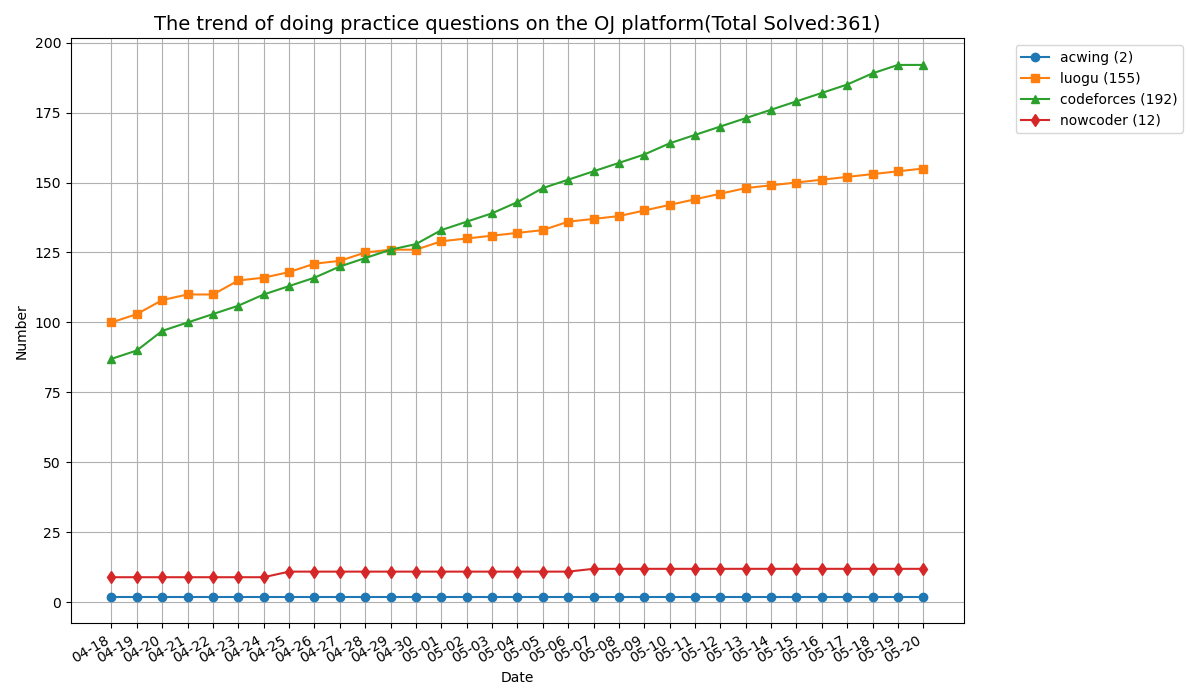
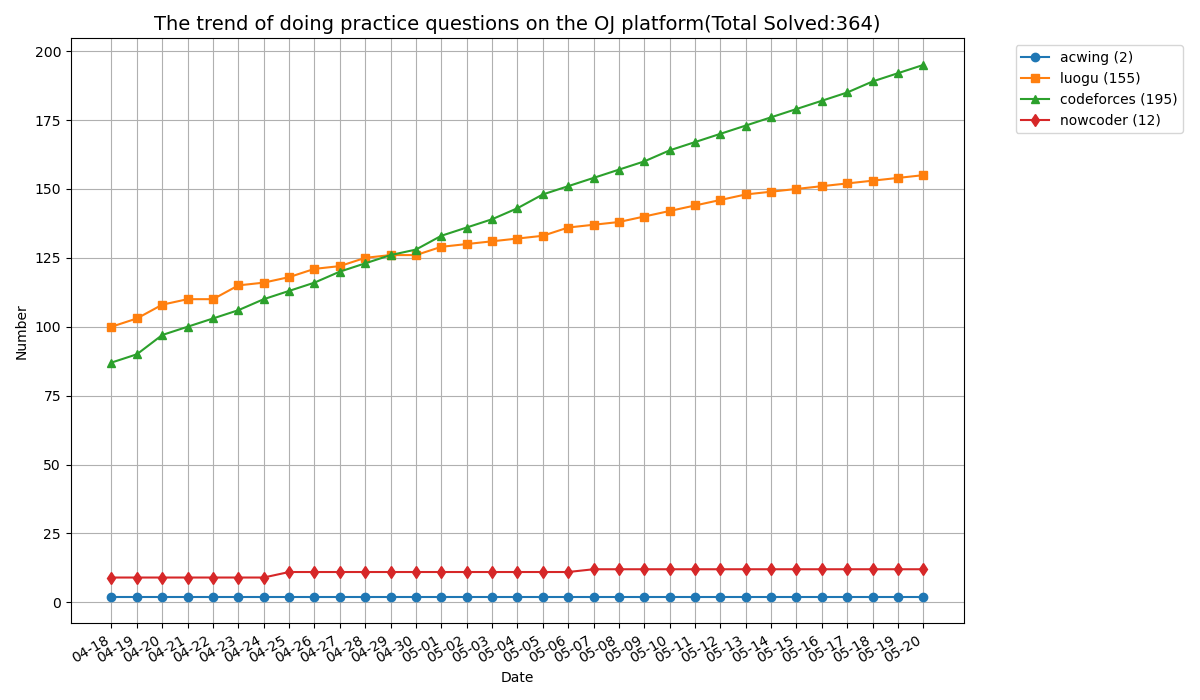
update

diff --git a/codeforces/459B/main.cpp b/codeforces/459B/main.cpp
@@ -1,0 +1,76 @@
+#include <bits/stdc++.h>
+using namespace std;
+
+
+
+#define ALL(x) (x).begin(), (x).end()
+#define MAXV(a, l, r) *std::max_element((a).begin() + (l), (a).begin() + (r))
+#define MINV(a, l, r) *std::min_element((a).begin() + (l), (a).begin() + (r))
+
+
+
+using ll = long long int;
+using ull = unsigned long long int;
+using PII = pair<int,int>;
+
+#define DEBUG
+#ifdef DEBUG
+template<typename Container>
+void PrintCon(const Container& cont) {
+  std::cout << "{ ";
+    if (!cont.empty()) {
+        auto it = cont.begin();
+        std::cout <<"\033[33m"<< *it++<< "\033[0m";
+        for (; it != cont.end(); ++it)
+            std::cout << " | " <<"\033[33m"<< *it<< "\033[0m";
+    }
+    std::cout << " }" << std::endl;
+}
+
+template<typename... Args>
+void LOG(Args&&... values) {
+    ((std::cout <<"\033[33m"<< std::forward<Args>(values) << "\033[0m"<< " "), ...);
+    std::cout << std::endl;
+}
+
+#else
+
+template<typename ...Args>
+void LOG(Args& ...args);
+template<typename Container>
+void PrintCon(const Container& cont);
+
+#endif
+
+
+int main(){
+    ios::sync_with_stdio(false);
+    cin.tie(nullptr);
+    ll n;
+    cin>>n;
+    vector<ll> a(n);
+    for(int i = 0;i<n;i++)cin>>a[i];
+    ll mxnum = 1,mnnum = 1;
+    sort(ALL(a));
+    
+    for(int i = 1;i<n;i++){
+      if(a[i]!=a[0]){
+        break;
+      }else{
+        mnnum++;
+      }
+    }
+     for(int i = n-2;i>=0;i--){
+      if(a[i]!=a[n-1]){
+        break;
+      }else{
+        mxnum++;
+      }
+    }
+     if(a[n-1]==a[0]){
+       cout<<0<<' '<<n*(n-1)/2<<endl;
+     }else{
+   cout<<a[n-1]-a[0]<<' '<<mnnum*mxnum<<endl;
+     }
+    return 0;
+}

diff --git a/codeforces/268A/main.cpp b/codeforces/268A/main.cpp
@@ -1,0 +1,63 @@
+#include <bits/stdc++.h>
+using namespace std;
+
+#define ALL(x) (x).begin(), (x).end()
+#define MAXV(a, l, r) *std::max_element((a).begin() + (l), (a).begin() + (r))
+#define MINV(a, l, r) *std::min_element((a).begin() + (l), (a).begin() + (r))
+
+using ll = long long int;
+using ull = unsigned long long int;
+using PII = pair<int, int>;
+
+#define DEBUG
+#ifdef DEBUG
+template <typename Container>
+void PrintCon(const Container &cont)
+{
+    std::cout << "{ ";
+    if (!cont.empty())
+    {
+        auto it = cont.begin();
+        std::cout << "\033[33m" << *it++ << "\033[0m";
+        for (; it != cont.end(); ++it)
+            std::cout << " | " << "\033[33m" << *it << "\033[0m";
+    }
+    std::cout << " }" << std::endl;
+}
+
+template <typename... Args>
+void LOG(Args &&...values)
+{
+    ((std::cout << "\033[33m" << std::forward<Args>(values) << "\033[0m" << " "), ...);
+    std::cout << std::endl;
+}
+
+#else
+
+template <typename... Args>
+void LOG(Args &...args);
+template <typename Container>
+void PrintCon(const Container &cont);
+
+#endif
+
+int main()
+{
+    ios::sync_with_stdio(false);
+    cin.tie(nullptr);
+    int n;
+    vector<int> a(n+4);
+    vector<int> b(n+4);
+    cin >> n;
+    int ans = 0;
+    for (int i = 1; i <= n; i++)
+        cin >> a[i] >> b[i];
+    for (int i = 1; i <= n; i++)
+        for (int j = 1; j <= n; j++)
+            
+            if (a[i] == b[j]) 
+                ans++;        
+    cout << ans;             
+
+    return 0;
+}

diff --git a/codeforces/158B/main.cpp b/codeforces/158B/main.cpp
@@ -1,0 +1,59 @@
+#include <bits/stdc++.h>
+using namespace std;
+
+#define ALL(x) (x).begin(), (x).end()
+#define MAXV(a, l, r) *std::max_element((a).begin() + (l), (a).begin() + (r))
+#define MINV(a, l, r) *std::min_element((a).begin() + (l), (a).begin() + (r))
+
+using ll = long long int;
+using ull = unsigned long long int;
+using PII = pair<int, int>;
+
+#define DEBUG
+#ifdef DEBUG
+template <typename Container>
+void PrintCon(const Container &cont)
+{
+    std::cout << "{ ";
+    if (!cont.empty())
+    {
+        auto it = cont.begin();
+        std::cout << "\033[33m" << *it++ << "\033[0m";
+        for (; it != cont.end(); ++it)
+            std::cout << " | " << "\033[33m" << *it << "\033[0m";
+    }
+    std::cout << " }" << std::endl;
+}
+
+template <typename... Args>
+void LOG(Args &&...values)
+{
+    ((std::cout << "\033[33m" << std::forward<Args>(values) << "\033[0m" << " "), ...);
+    std::cout << std::endl;
+}
+
+#else
+
+template <typename... Args>
+void LOG(Args &...args);
+template <typename Container>
+void PrintCon(const Container &cont);
+
+#endif
+
+int main()
+{
+    ios::sync_with_stdio(false);
+    cin.tie(nullptr);
+    vector<int> cnt(5);
+    int n;
+    cin >> n;
+    for (int i = 1, x; i <= n; i++)
+        cin >> x, cnt[x]++;
+    int t = min(cnt[3], cnt[1]);
+    cnt[4] += t;
+    cnt[3] -= t;
+    cnt[1] -= t;
+    cout << cnt[4] + cnt[3] + (cnt[2] * 2 + cnt[1] * 1 + 4 - 1) / 4 << endl;
+    return 0;
+}
